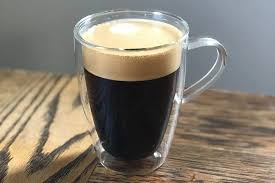
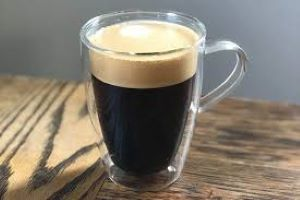
fixed some bugs

diff --git a/frontend/src/app/(menu)/menu/page.tsx b/frontend/src/app/(menu)/menu/page.tsx
@@ -2,5 +2,5 @@ import MenuRenderer from "@/features/menu/MenuRenderer";
 import { demoMenu } from "@/features/menu/data/demoMenu";
 
 export default function MenuPage() {
-  return <MenuRenderer template="CoffeeHouseTemplate" menu={demoMenu} />;
+  return <MenuRenderer template="template001" menu={demoMenu} />;
 }
